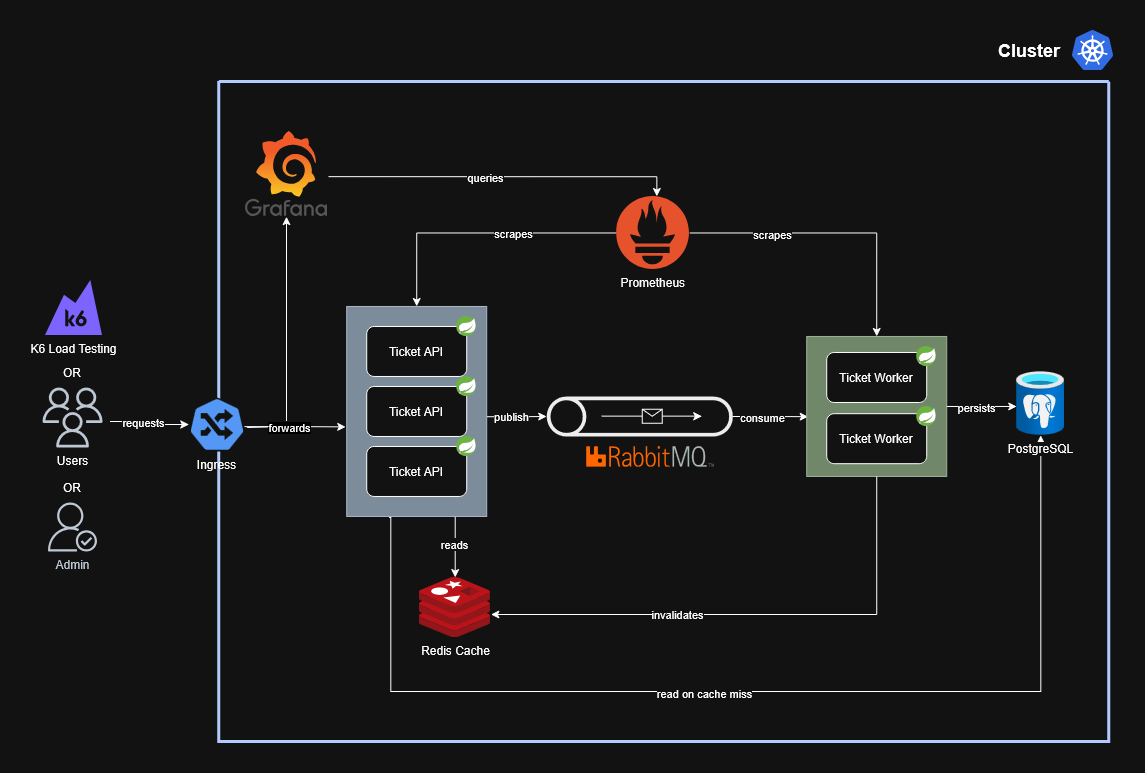
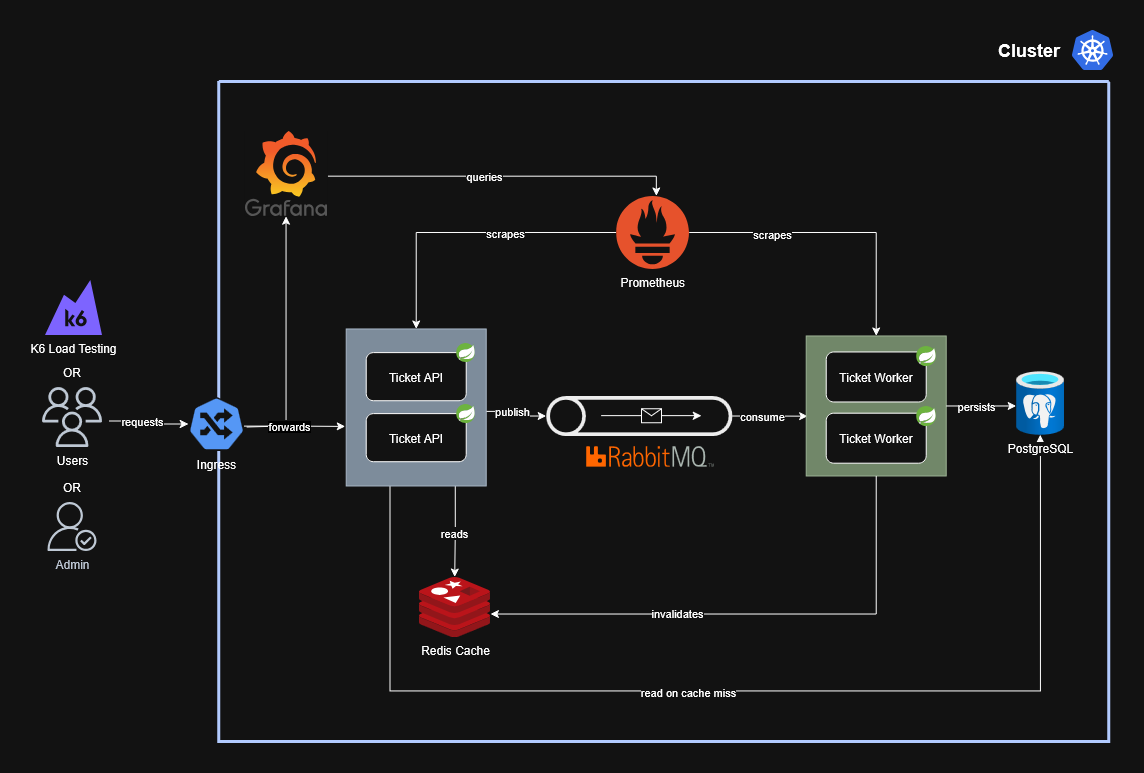
increased minikube resources & decreased replica count for ticket-api & fixed startupProbe for ticket-worker

diff --git a/README.md b/README.md
@@ -11,7 +11,7 @@ This project is a private playground for learning concepts and technologies for 
 
 ## Infrastructure components
 
-- **Ticket-API (3 Replicas):** Spring Boot Service (REST API) handling HTTP requests. Performs high-speed reads via Redis and publishes write-events to RabbitMQ.
+- **Ticket-API (2 Replicas):** Spring Boot Service (REST API) handling HTTP requests. Performs high-speed reads via Redis and publishes write-events to RabbitMQ.
 - **Ticket-Worker (2 Replicas):** Spring Boot backend consumer. Asynchronously processes orders, updates the database and invalidates the cache.
 - **Load Balancer:** Kubernetes Service distributing incoming traffic across API replicas using a Round-Robin strategy.
 - **Redis:** In-memory store used as a Look-Aside Cache (TTL: 10s) to reduce read-load on the database.
